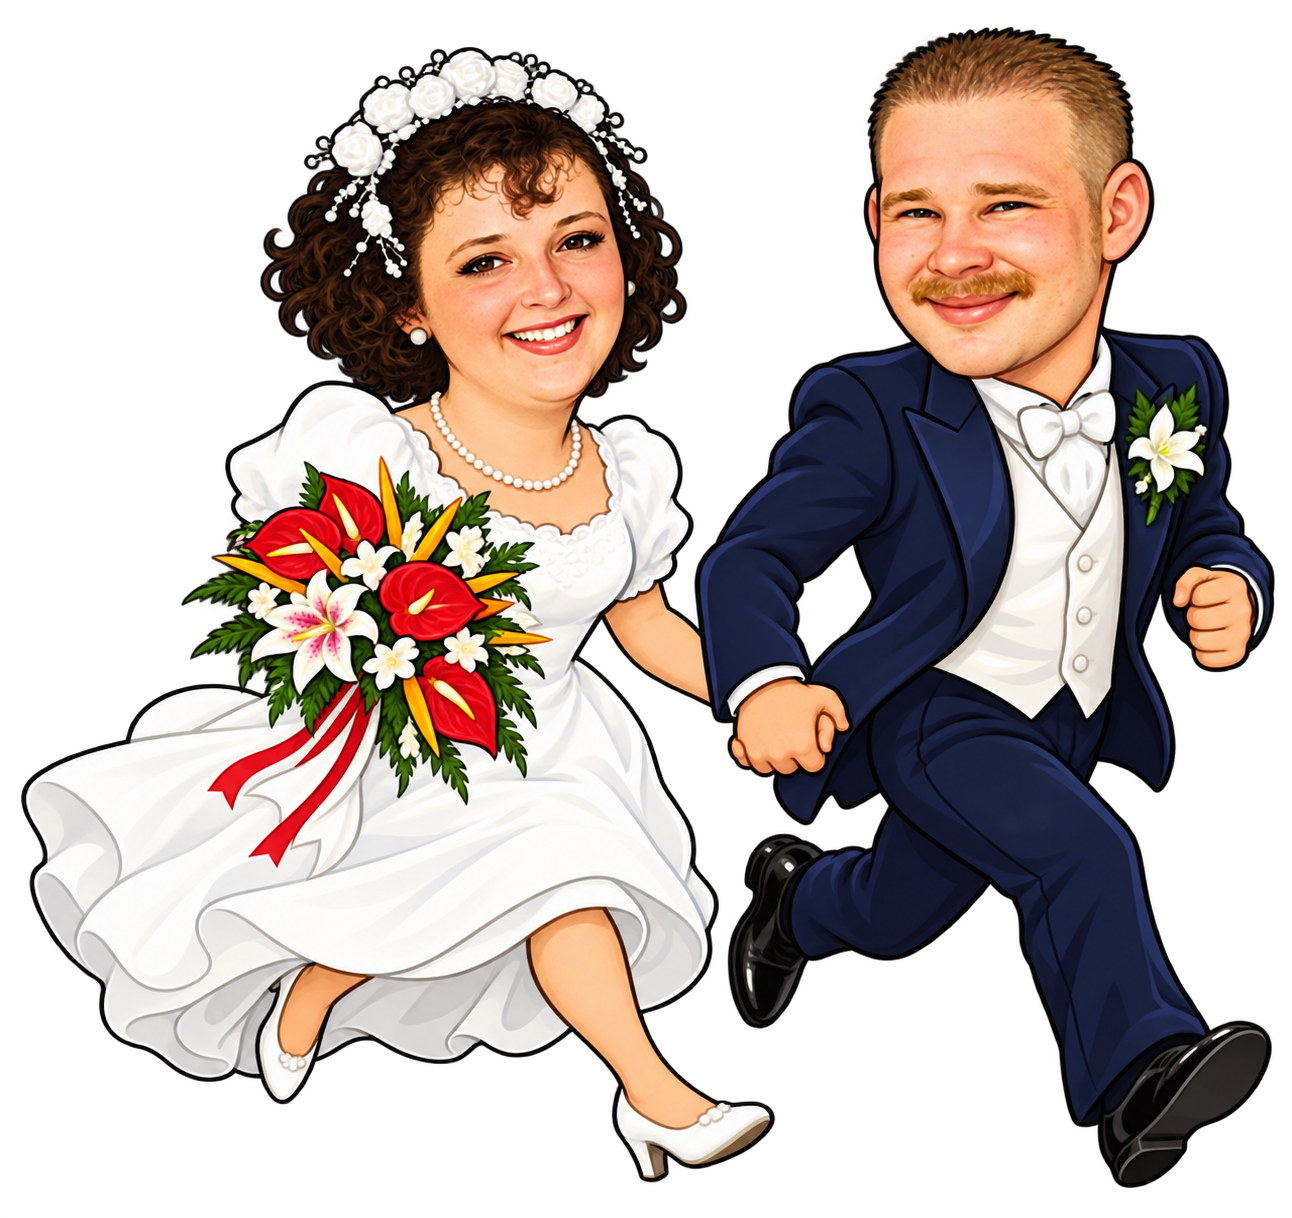
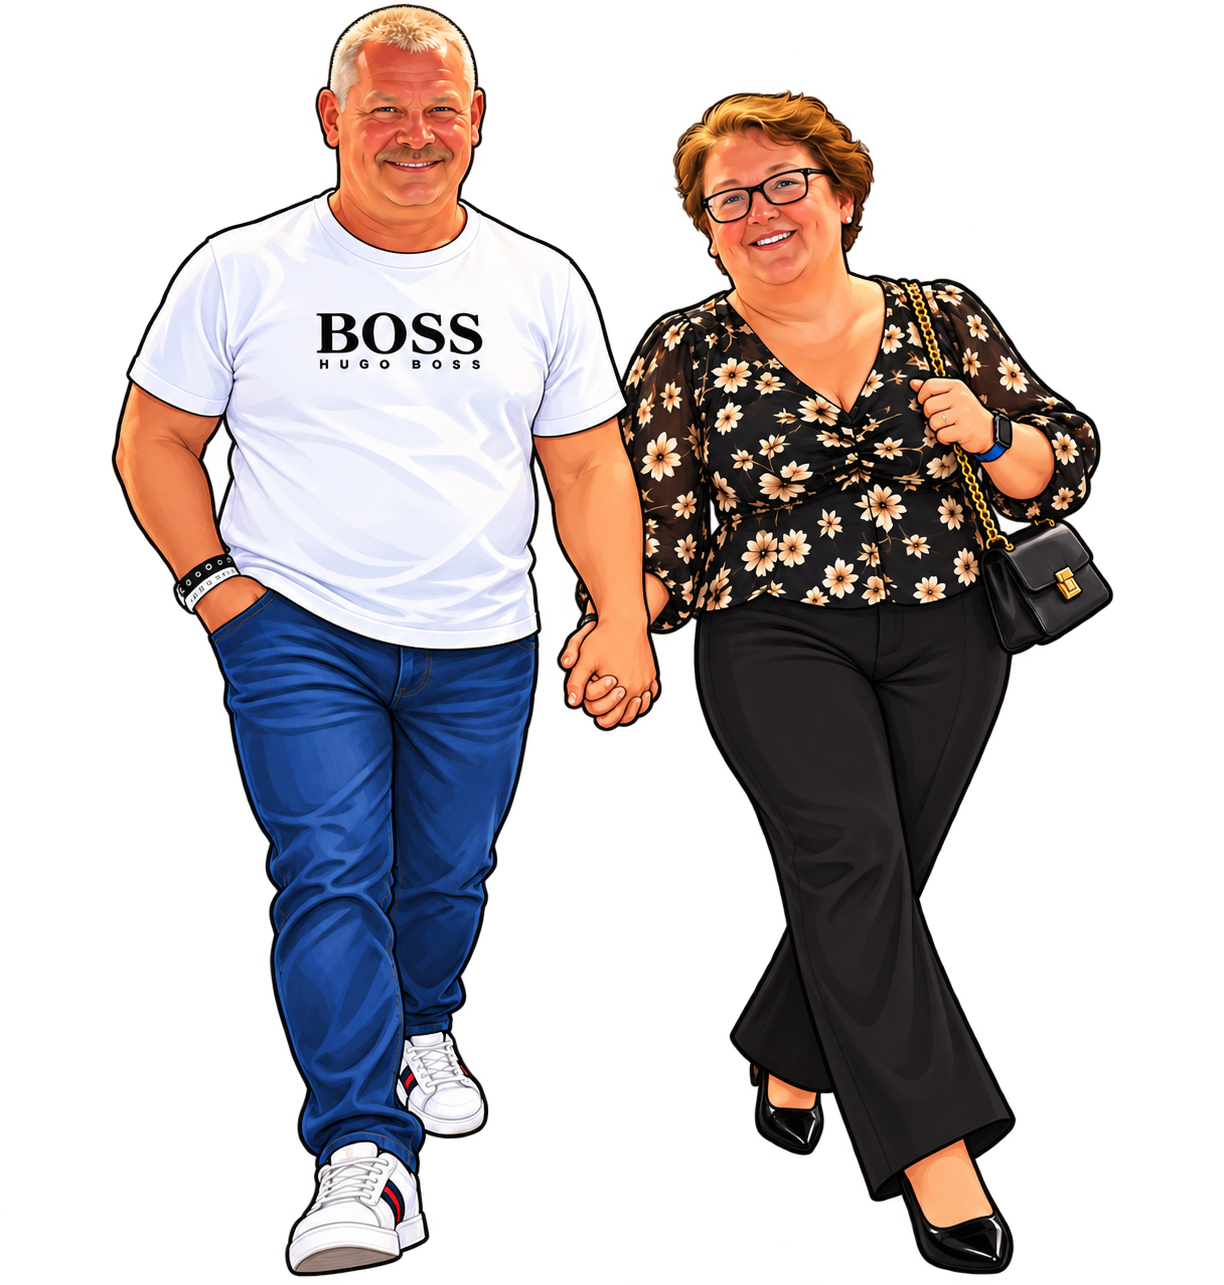
new caricature

diff --git a/games/pairs/game.js b/games/pairs/game.js
@@ -25,6 +25,8 @@ const resultText =
 const continueButton =
     document.getElementById("continueButton");
 
+const keepPlayingButton =
+    document.getElementById("keepPlayingButton");
 
 const pairImages = [
     "assets/memory-1.jpg",
@@ -289,13 +291,21 @@ function startTimer() {
     resultText.textContent =
         "Time's up — but you can keep playing and finish the pairs if you want.";
 
-    giveUpButton.classList.add(
+    giveUpButton.classList.remove(
     "hidden"
 );
 
-    resultPanel.classList.remove(
-        "hidden"
-    );
+keepPlayingButton.classList.remove(
+    "hidden"
+);
+
+continueButton.classList.add(
+    "hidden"
+);
+
+resultPanel.classList.remove(
+    "hidden"
+);
 
     resultPanel.scrollIntoView({
         behavior: "smooth",
@@ -324,6 +334,14 @@ function finishGame() {
 
     giveUpButton.classList.add("hidden");
 
+    keepPlayingButton.classList.add(
+        "hidden"
+    );
+
+    continueButton.classList.remove(
+        "hidden"
+    );
+
     let result;
 
     if (
@@ -348,15 +366,16 @@ function finishGame() {
 
         if (pairsRemaining === 0) {
 
-            resultText.textContent =
-                "You found all eight pairs, but there was a wrong attempt along the way.";
+    resultText.textContent =
+        "You found all eight pairs! A coconut was collected because the timer ran out.";
 
-        } else {
+} else {
 
-            resultText.textContent =
-                "Time ran out before all eight pairs were matched.";
-        }
-    }
+    resultText.textContent =
+        timeLeft <= 0
+            ? "Time ran out before all eight pairs were matched."
+            : "You chose to give up before all eight pairs were matched.";
+}    }
 
     sessionStorage.setItem(
         "pearlPairsResult",
@@ -388,6 +407,27 @@ giveUpButton.addEventListener(
     }
 );
 
+keepPlayingButton.addEventListener(
+    "click",
+    () => {
+
+        resultPanel.classList.add(
+            "hidden"
+        );
+
+        keepPlayingButton.classList.add(
+            "hidden"
+        );
+
+        continueButton.classList.remove(
+            "hidden"
+        );
+
+        giveUpButton.classList.remove(
+            "hidden"
+        );
+    }
+);
 
 continueButton.addEventListener(
     "click",

diff --git a/games/pairs/index.html b/games/pairs/index.html
@@ -89,6 +89,14 @@
             <p id="resultText"></p>
 
             <button
+                id="keepPlayingButton"
+                class="primary hidden"
+                type="button"
+            >
+            Keep Playing
+            </button>
+
+            <button
                 id="continueButton"
                 class="primary"
                 type="button"
